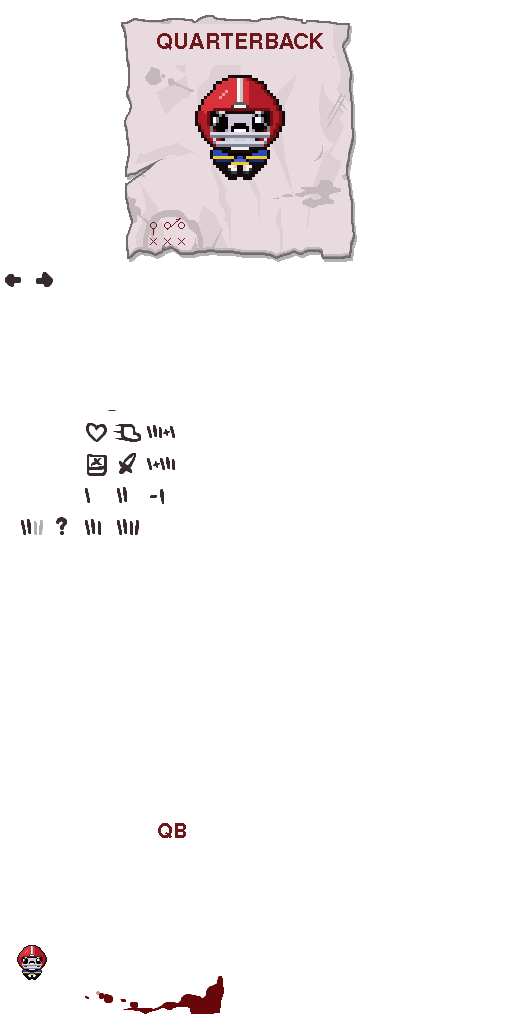
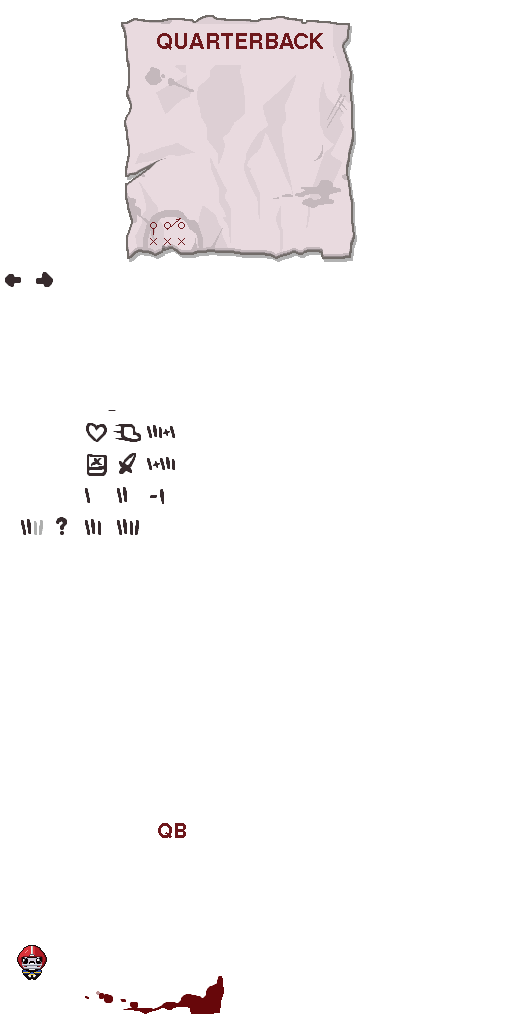
v0.4.3: keep the character wheel area of the menu page clear
Claude-Session: https://claude.ai/code/session_01SDCta5dxMaVUtMhVsYXLuG

Changed region(s): [[0.375, 0.0625, 0.5625, 0.1875]]

diff --git a/tools/make_character.py b/tools/make_character.py
@@ -148,8 +148,7 @@ def build_menu(template_png, out_png, title_ink, fig, name_box, portrait_box):
     clear(page, (150, 24, 332, 64), paper)
     title = text_image(NAME.upper(), 22, title_ink)
     paste_center(page, title, (128, 24, 352, 60))
-    # a big drawing of him on the page, plus a play diagram
-    paste_center(page, scaled(fig, 3), (160, 68, 320, 214))
+    # the middle of the page stays blank: the game draws the character wheel there
     play_diagram(page, 150, 222, title_ink)
     # the little name tag and the wheel portrait
     clear(page, name_box)

diff --git a/CHANGELOG.md b/CHANGELOG.md
@@ -1,5 +1,8 @@
 # Changelog
 
+## 0.4.3
+- Fix: the Quarterback character-select pages no longer draw a big figure in the middle of the page, where it piled up under the character wheel.
+
 ## 0.4.2
 - Fix: running with a live tackle (fast when Suited Up) spawned screen-filling smoke clouds that flashed on every move. The trail is now a small, faint turf puff.
 
